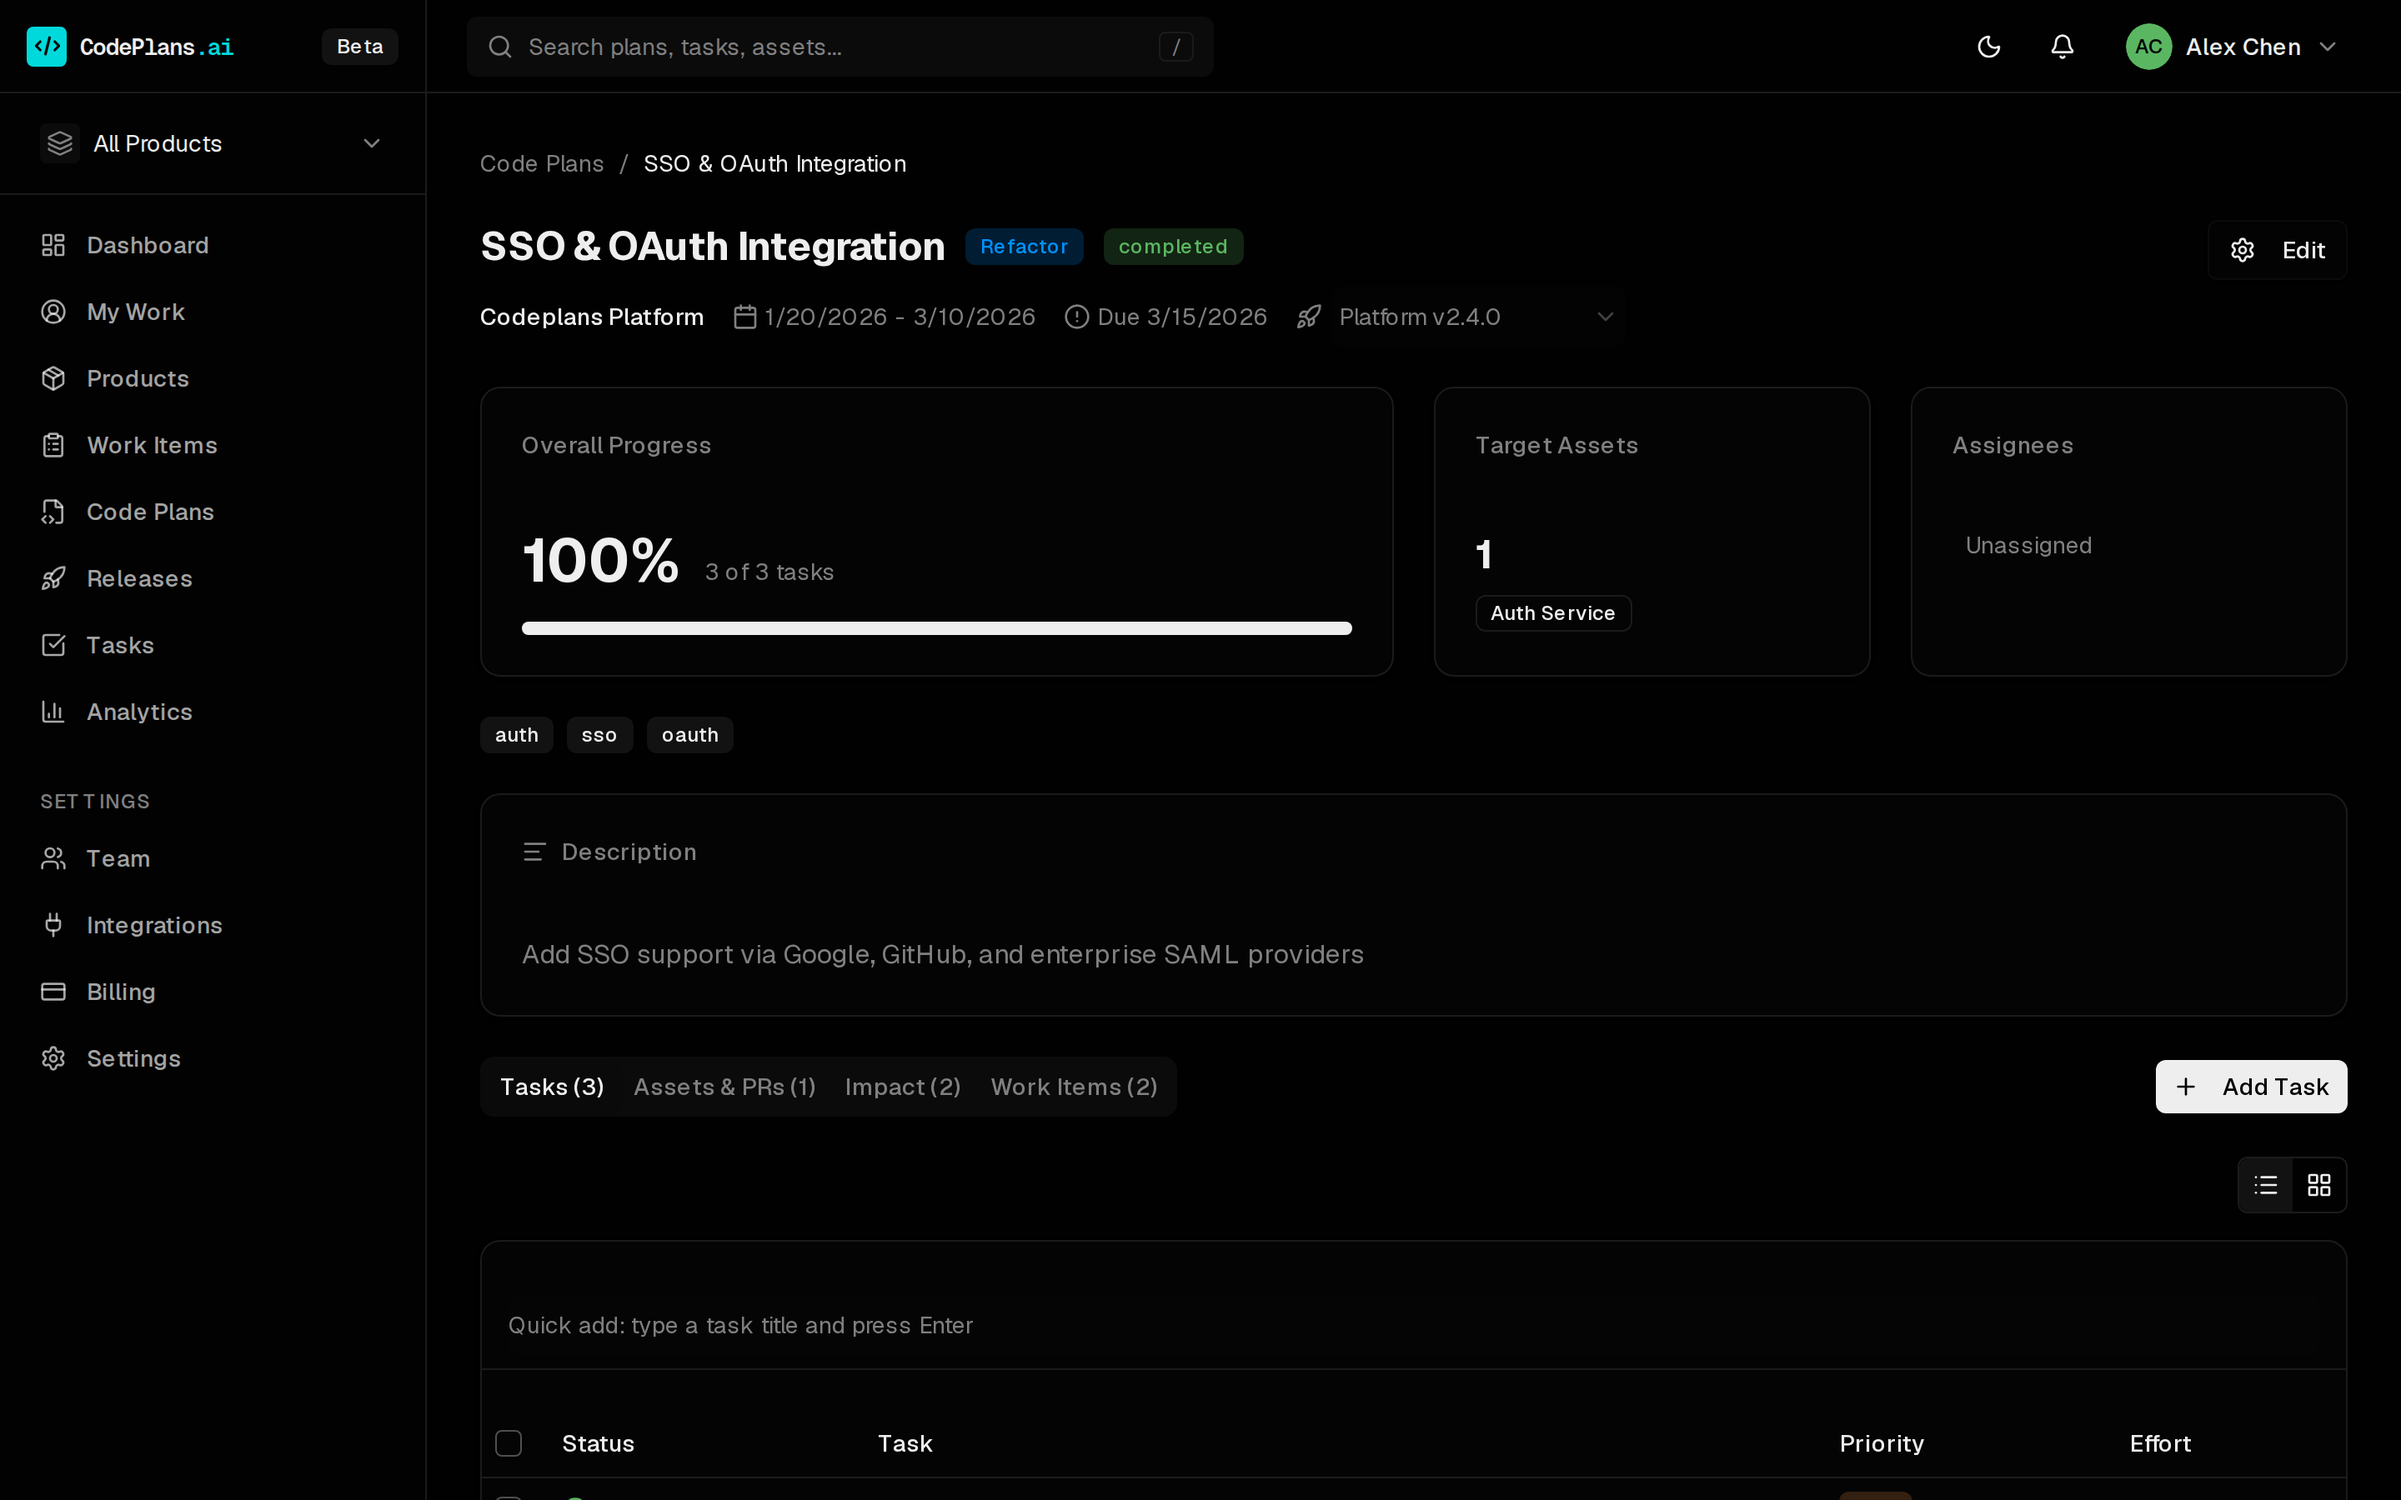
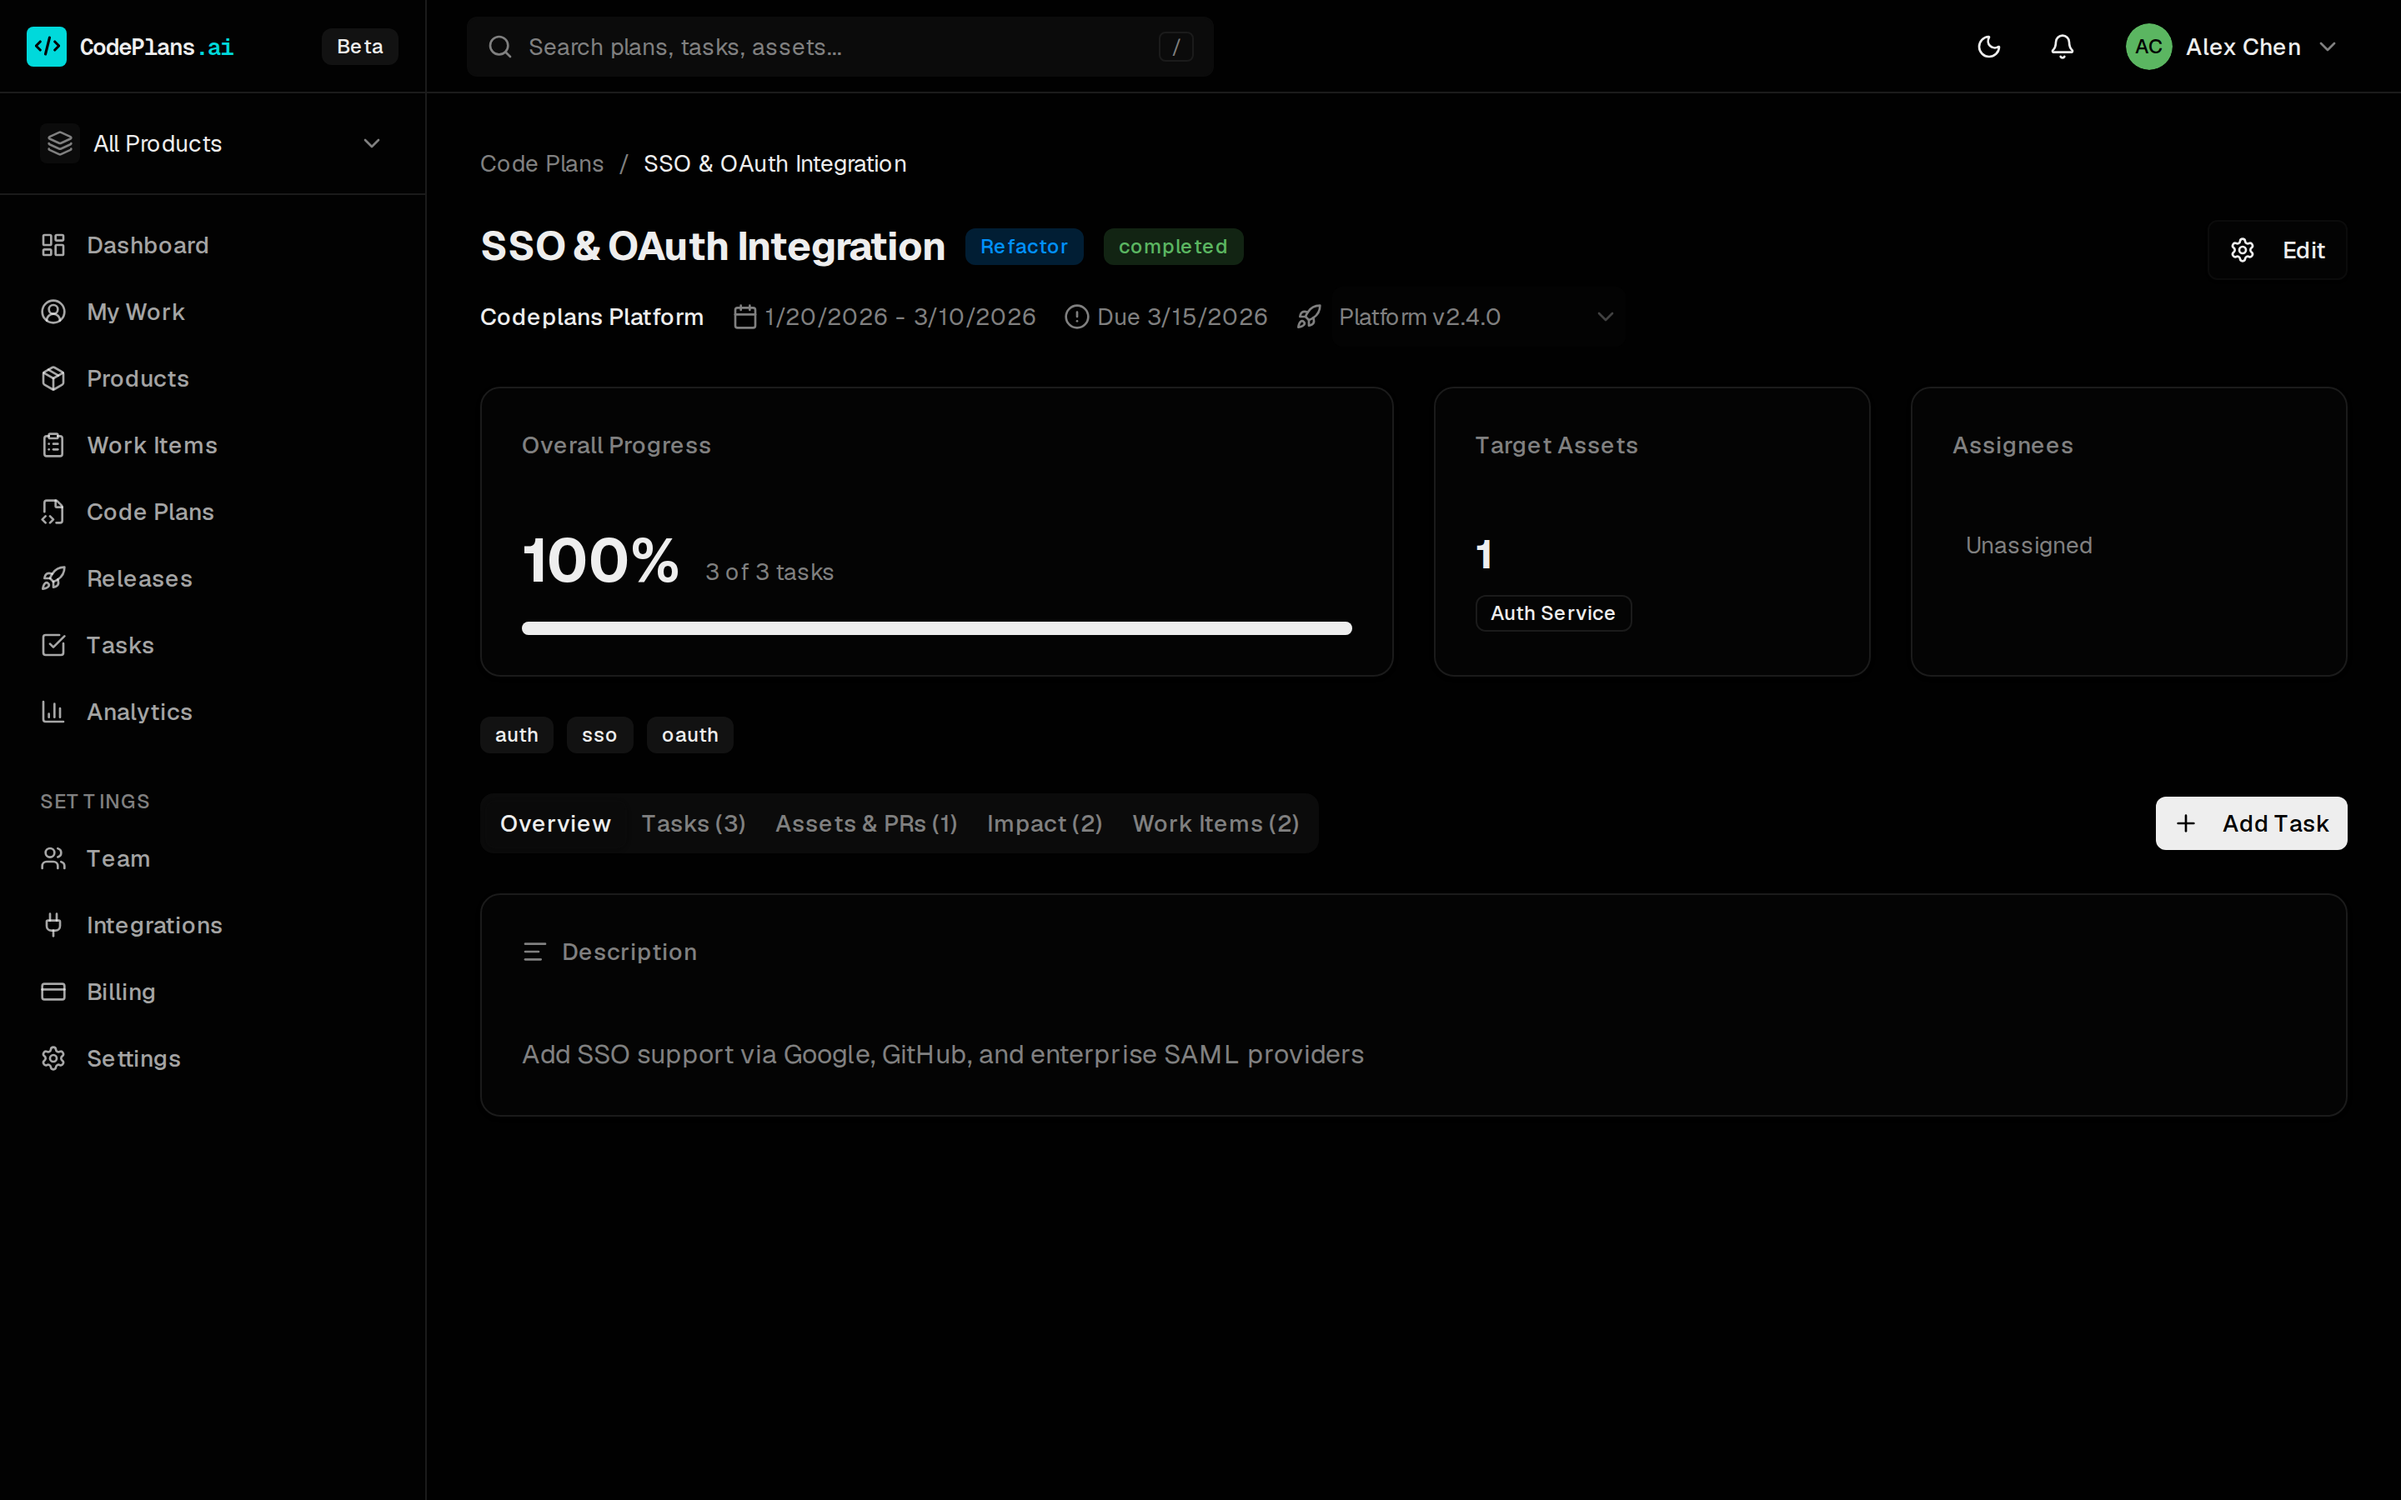
Apply the Overview-tab pattern to plan and release detail
Follows the asset-detail change: specification content lives in a
default Overview tab so it reads properly and every tab's content
starts above the fold.

- Plan detail: the long-form description and linked design spec move
  from above the tab bar into a default Overview tab (Tasks, Assets &
  PRs, Impact, Work Items unchanged); empty-state prompt when the plan
  has neither
- Release detail: the description (the release notes) moves into a
  default Overview tab; empty state points at Draft release notes when
  AI drafting is enabled
- Product detail untouched — its description is a one-line header
  subtitle, not long-form content
- Docs screenshots for plan detail (Overview showing the spec) and
  release detail (Assets & Versions with the new tab bar) recaptured;
  tour caption and app-spec updated

Claude-Session: https://claude.ai/code/session_01Y7FhGxYjnJHJ7m9MpH2dgJ

diff --git a/app/(dashboard)/plans/[id]/page.tsx b/app/(dashboard)/plans/[id]/page.tsx
@@ -197,21 +197,13 @@ export default async function PlanDetailPage({ params }: { params: Promise<{ id:
         </div>
       )}
 
-      {/* Long-form description, clamped with an expander */}
-      {plan.description && <PlanDescriptionCard description={plan.description} />}
-
-      {/* Linked design spec, rendered read-only from its source */}
-      {plan.specUrl && (
-        <SpecCard
-          specUrl={plan.specUrl}
-          markdown={await fetchSpecMarkdown(plan.specUrl, profile?.organizationId ?? null)}
-        />
-      )}
-
-      {/* Tasks front and center; delivery/impact/demand context one click away */}
-      <Tabs defaultValue="tasks">
+      {/* The spec is the work's anchor: description + linked design spec live in
+          a default Overview tab so they read properly and every tab's content
+          starts above the fold. */}
+      <Tabs defaultValue="overview">
         <div className="flex items-center justify-between flex-wrap gap-2">
           <TabsList className="bg-muted">
+            <TabsTrigger value="overview">Overview</TabsTrigger>
             <TabsTrigger value="tasks">Tasks ({plan.taskCount})</TabsTrigger>
             <TabsTrigger value="assets">Assets &amp; PRs ({plan.planAssets.length})</TabsTrigger>
             <TabsTrigger value="impact">Impact ({impactedAssets.length})</TabsTrigger>
@@ -219,6 +211,27 @@ export default async function PlanDetailPage({ params }: { params: Promise<{ id:
           </TabsList>
           <AddTaskDialog plan={plan} teamMembers={teamMembers} />
         </div>
+
+        <TabsContent value="overview" className="mt-4 space-y-6">
+          {/* Long-form description, clamped with an expander */}
+          {plan.description && <PlanDescriptionCard description={plan.description} />}
+
+          {/* Linked design spec, rendered read-only from its source */}
+          {plan.specUrl && (
+            <SpecCard
+              specUrl={plan.specUrl}
+              markdown={await fetchSpecMarkdown(plan.specUrl, profile?.organizationId ?? null)}
+            />
+          )}
+
+          {!plan.description && !plan.specUrl && (
+            <Card className="bg-card border-border">
+              <CardContent className="py-8 text-center text-sm text-muted-foreground">
+                No description or linked spec yet — add one with Edit so the plan carries its own specification.
+              </CardContent>
+            </Card>
+          )}
+        </TabsContent>
 
         <TabsContent value="tasks" className="mt-4">
           <PlanTasksSection

diff --git a/app/(dashboard)/releases/[id]/page.tsx b/app/(dashboard)/releases/[id]/page.tsx
@@ -91,23 +91,35 @@ export default async function ReleaseDetailPage({ params }: { params: Promise<{ 
         </div>
       </div>
 
-      {release.description && (
-        <Card className="bg-card border-border">
-          <CardHeader className="pb-2">
-            <CardTitle className="text-sm font-medium text-muted-foreground">Description</CardTitle>
-          </CardHeader>
-          <CardContent className="prose prose-sm dark:prose-invert max-w-none">
-            <ReactMarkdown remarkPlugins={[remarkGfm]}>{release.description}</ReactMarkdown>
-          </CardContent>
-        </Card>
-      )}
-
-      <Tabs defaultValue="assets">
+      {/* The description (the release notes) lives in a default Overview tab so
+          it reads properly and every tab's content starts above the fold. */}
+      <Tabs defaultValue="overview">
         <TabsList className="bg-muted">
+          <TabsTrigger value="overview">Overview</TabsTrigger>
           <TabsTrigger value="assets">Assets &amp; Versions ({release.assets.length})</TabsTrigger>
           <TabsTrigger value="plans">Plans ({release.plans.length})</TabsTrigger>
           <TabsTrigger value="work-items">Work Items ({release.workItems.length})</TabsTrigger>
         </TabsList>
+
+        <TabsContent value="overview" className="mt-4">
+          {release.description ? (
+            <Card className="bg-card border-border">
+              <CardHeader className="pb-2">
+                <CardTitle className="text-sm font-medium text-muted-foreground">Description</CardTitle>
+              </CardHeader>
+              <CardContent className="prose prose-sm dark:prose-invert max-w-none">
+                <ReactMarkdown remarkPlugins={[remarkGfm]}>{release.description}</ReactMarkdown>
+              </CardContent>
+            </Card>
+          ) : (
+            <Card className="bg-card border-border">
+              <CardContent className="py-8 text-center text-sm text-muted-foreground">
+                No description yet — it becomes the release notes. Write one, or derive it from the
+                delivered work items{config.ai.enabled && editable ? ' with Draft release notes' : ''}.
+              </CardContent>
+            </Card>
+          )}
+        </TabsContent>
 
         <TabsContent value="assets" className="mt-4">
           <ReleaseAssetsSection

diff --git a/docs/index.html b/docs/index.html
@@ -411,7 +411,7 @@
       <button class="tour-tab" data-img="screenshots/asset-history.png" data-caption="Asset history — a version ladder of shipped releases, delivered plans, resolved work items, and design notes (user- or agent-authored).">Asset History</button>
       <button class="tour-tab" data-img="screenshots/releases.png" data-caption="Releases — group the plans that ship together, stamp per-asset versions, and track the ship lifecycle.">Releases</button>
       <button class="tour-tab" data-img="screenshots/release-detail.png" data-caption="A shipped release — per-asset version stamps, merged PR chips rolled up from attached plans, and derived release notes.">Release Detail</button>
-      <button class="tour-tab" data-img="screenshots/plan-detail.png" data-caption="A code plan — tasks, target assets, branch/PR delivery tracking, and the release it ships in.">Code Plan</button>
+      <button class="tour-tab" data-img="screenshots/plan-detail.png" data-caption="A code plan — progress, target assets, the release it ships in, and its specification up front in the Overview tab.">Code Plan</button>
       <button class="tour-tab" data-img="screenshots/work-items.png" data-caption="Work items — features, bugs, UX issues, and tech debt with severity, asset/area, and the plans that address them.">Work Items</button>
       <button class="tour-tab" data-img="screenshots/asset-dependencies.png" data-caption="Asset dependencies — both directions of the graph, feeding impact analysis when plans target an asset.">Dependencies</button>
     </div>

diff --git a/docs/app-spec.md b/docs/app-spec.md
@@ -300,7 +300,7 @@ Header (type/health badges, current version chip from latest shipped release, re
 - **Record** (v0.4.4) — the asset's current-state register: a candidates banner ("N resolved features can join this asset's record" with one-click graduation), capabilities list (lineage chip from `originSummary`, verification freshness dot, expandable markdown, edit dialog, remove-with-reason dialog), derived **Known issues** (open bug/ux) and **Debt register** (open tech_debt) cards, and a struck-through **Previously** card for tombstoned capabilities.
 
 #### `/releases` & `/releases/[id]` — Releases (v0.4.1)
-List: status tabs (All / In Progress / Shipped), rows with asset+version chips, plan counts, derived work-item type dots; create side panel. Detail mirrors plan-detail layout:
+List: status tabs (All / In Progress / Shipped), rows with asset+version chips, plan counts, derived work-item type dots; create side panel. Detail mirrors plan-detail layout (v0.4.4: description moved into a default **Overview** tab — it is the release notes; empty state points at Draft release notes when AI is enabled):
 - **Assets & Versions** — one row per `release_assets` entry with inline version/note editing, per-asset PR chips rolled up from attached plans, and a suggestion banner for plan-targeted assets missing from the release
 - **Plans** — attach/detach (a "ships in" picker also exists on plan detail); **Work Items** — derived through attached plans, grouped Features / Bugs & UX / Tech Debt (the release-notes structure)
 - **Mark Shipped** confirm lists unversioned assets; shipped/abandoned releases render read-only. "Draft release notes" (flagged AI) opens an editable dialog; saving writes the description explicitly.
@@ -322,6 +322,7 @@ Client component (`PlansClient`) with:
 - **Link Milestone** (`plan-sync-dialog.tsx`): binds the plan to a GitHub milestone via an org connection; milestone issues mirror as read-only plan tasks (mixed with native tasks); Unlink converts mirrored tasks to native. Sync also refreshes `code_plan_assets.prStatus` for PR URLs in the connection's repo
 - Stats row: Overall Progress (% + progress bar + task count), Target Assets (count + names), Assignees (avatars)
 - Tags row
+- Tabs (v0.4.4: the long-form description + linked spec moved into a default **Overview** tab — the spec anchors the work, and every tab's content starts above the fold): **Overview** (clamped markdown description via `plan-description-card.tsx`, linked design spec via `SpecCard`, empty-state prompt when neither exists) / Tasks / Assets & PRs / Impact / Work Items
 - **Target Assets & PRs** (`plan-assets-section.tsx`): per-asset rows with branch, PR link, PR status badge; inline edit form; add/remove target assets → plan-asset actions
 - **Impact Analysis**: assets depending on the plan's targets (via `asset_dependencies`), with dependency path and health badges
 - **Linked Work Items**: items linked via `work_item_code_plans` with type/status badges
